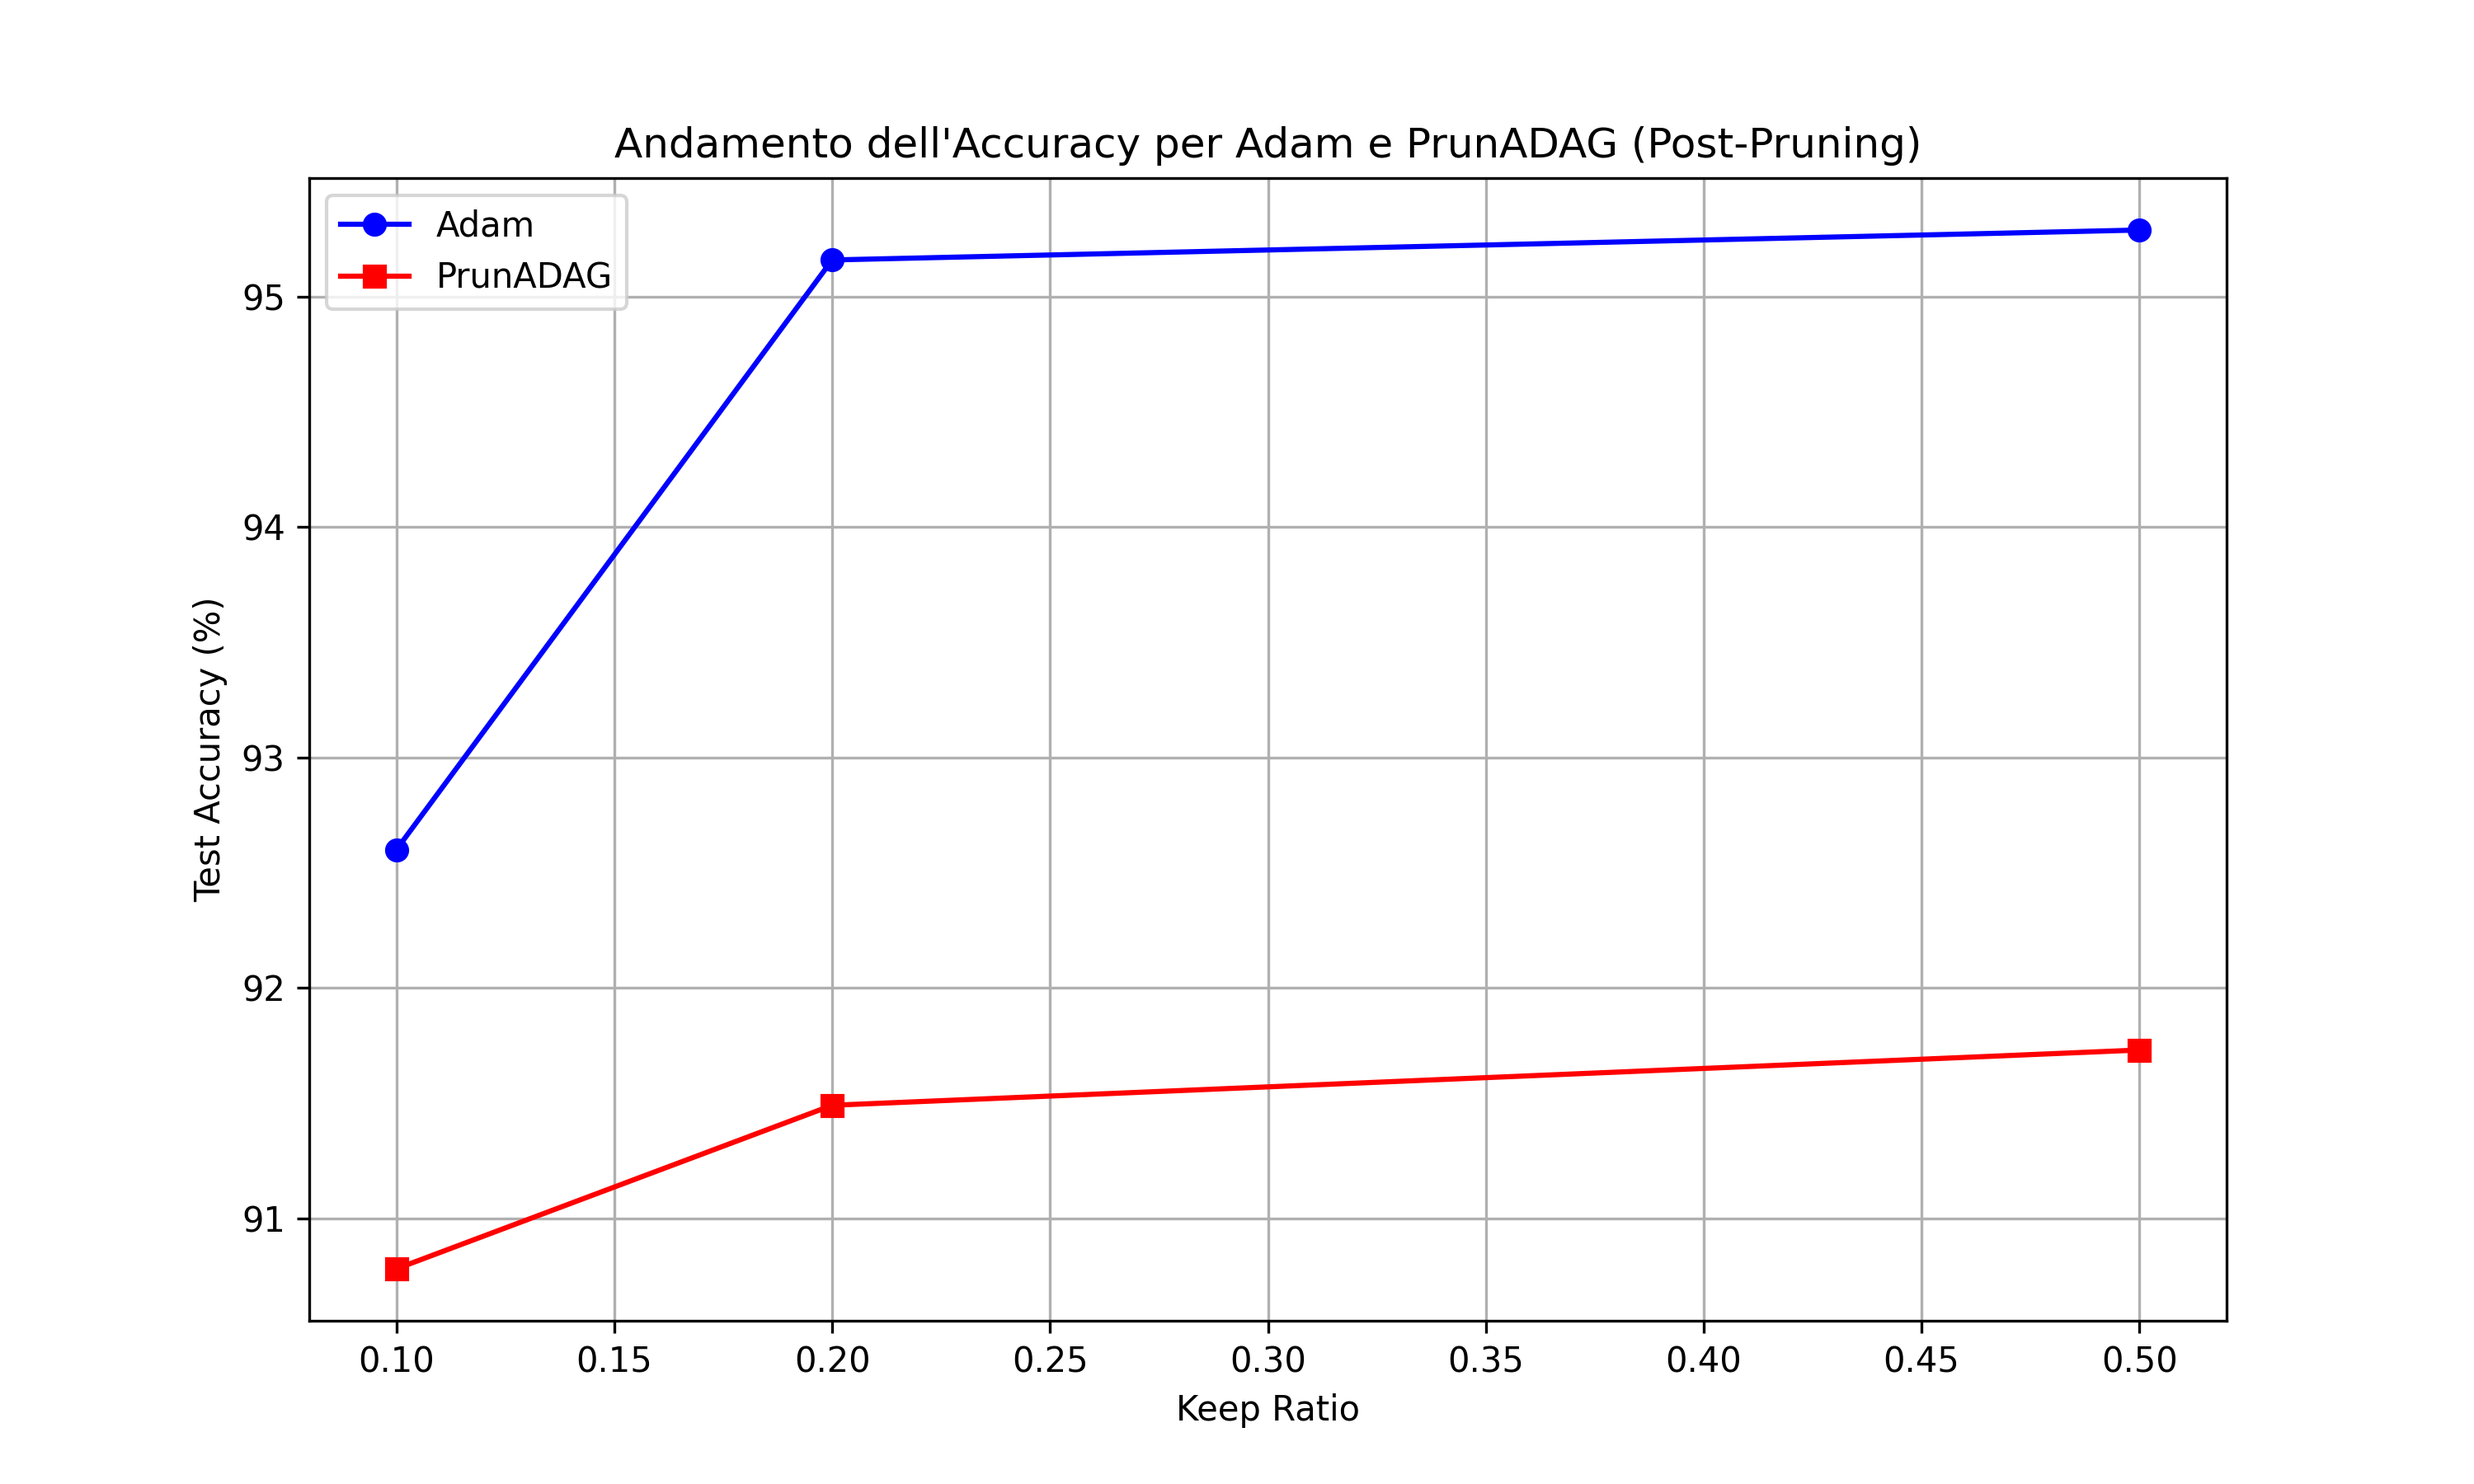
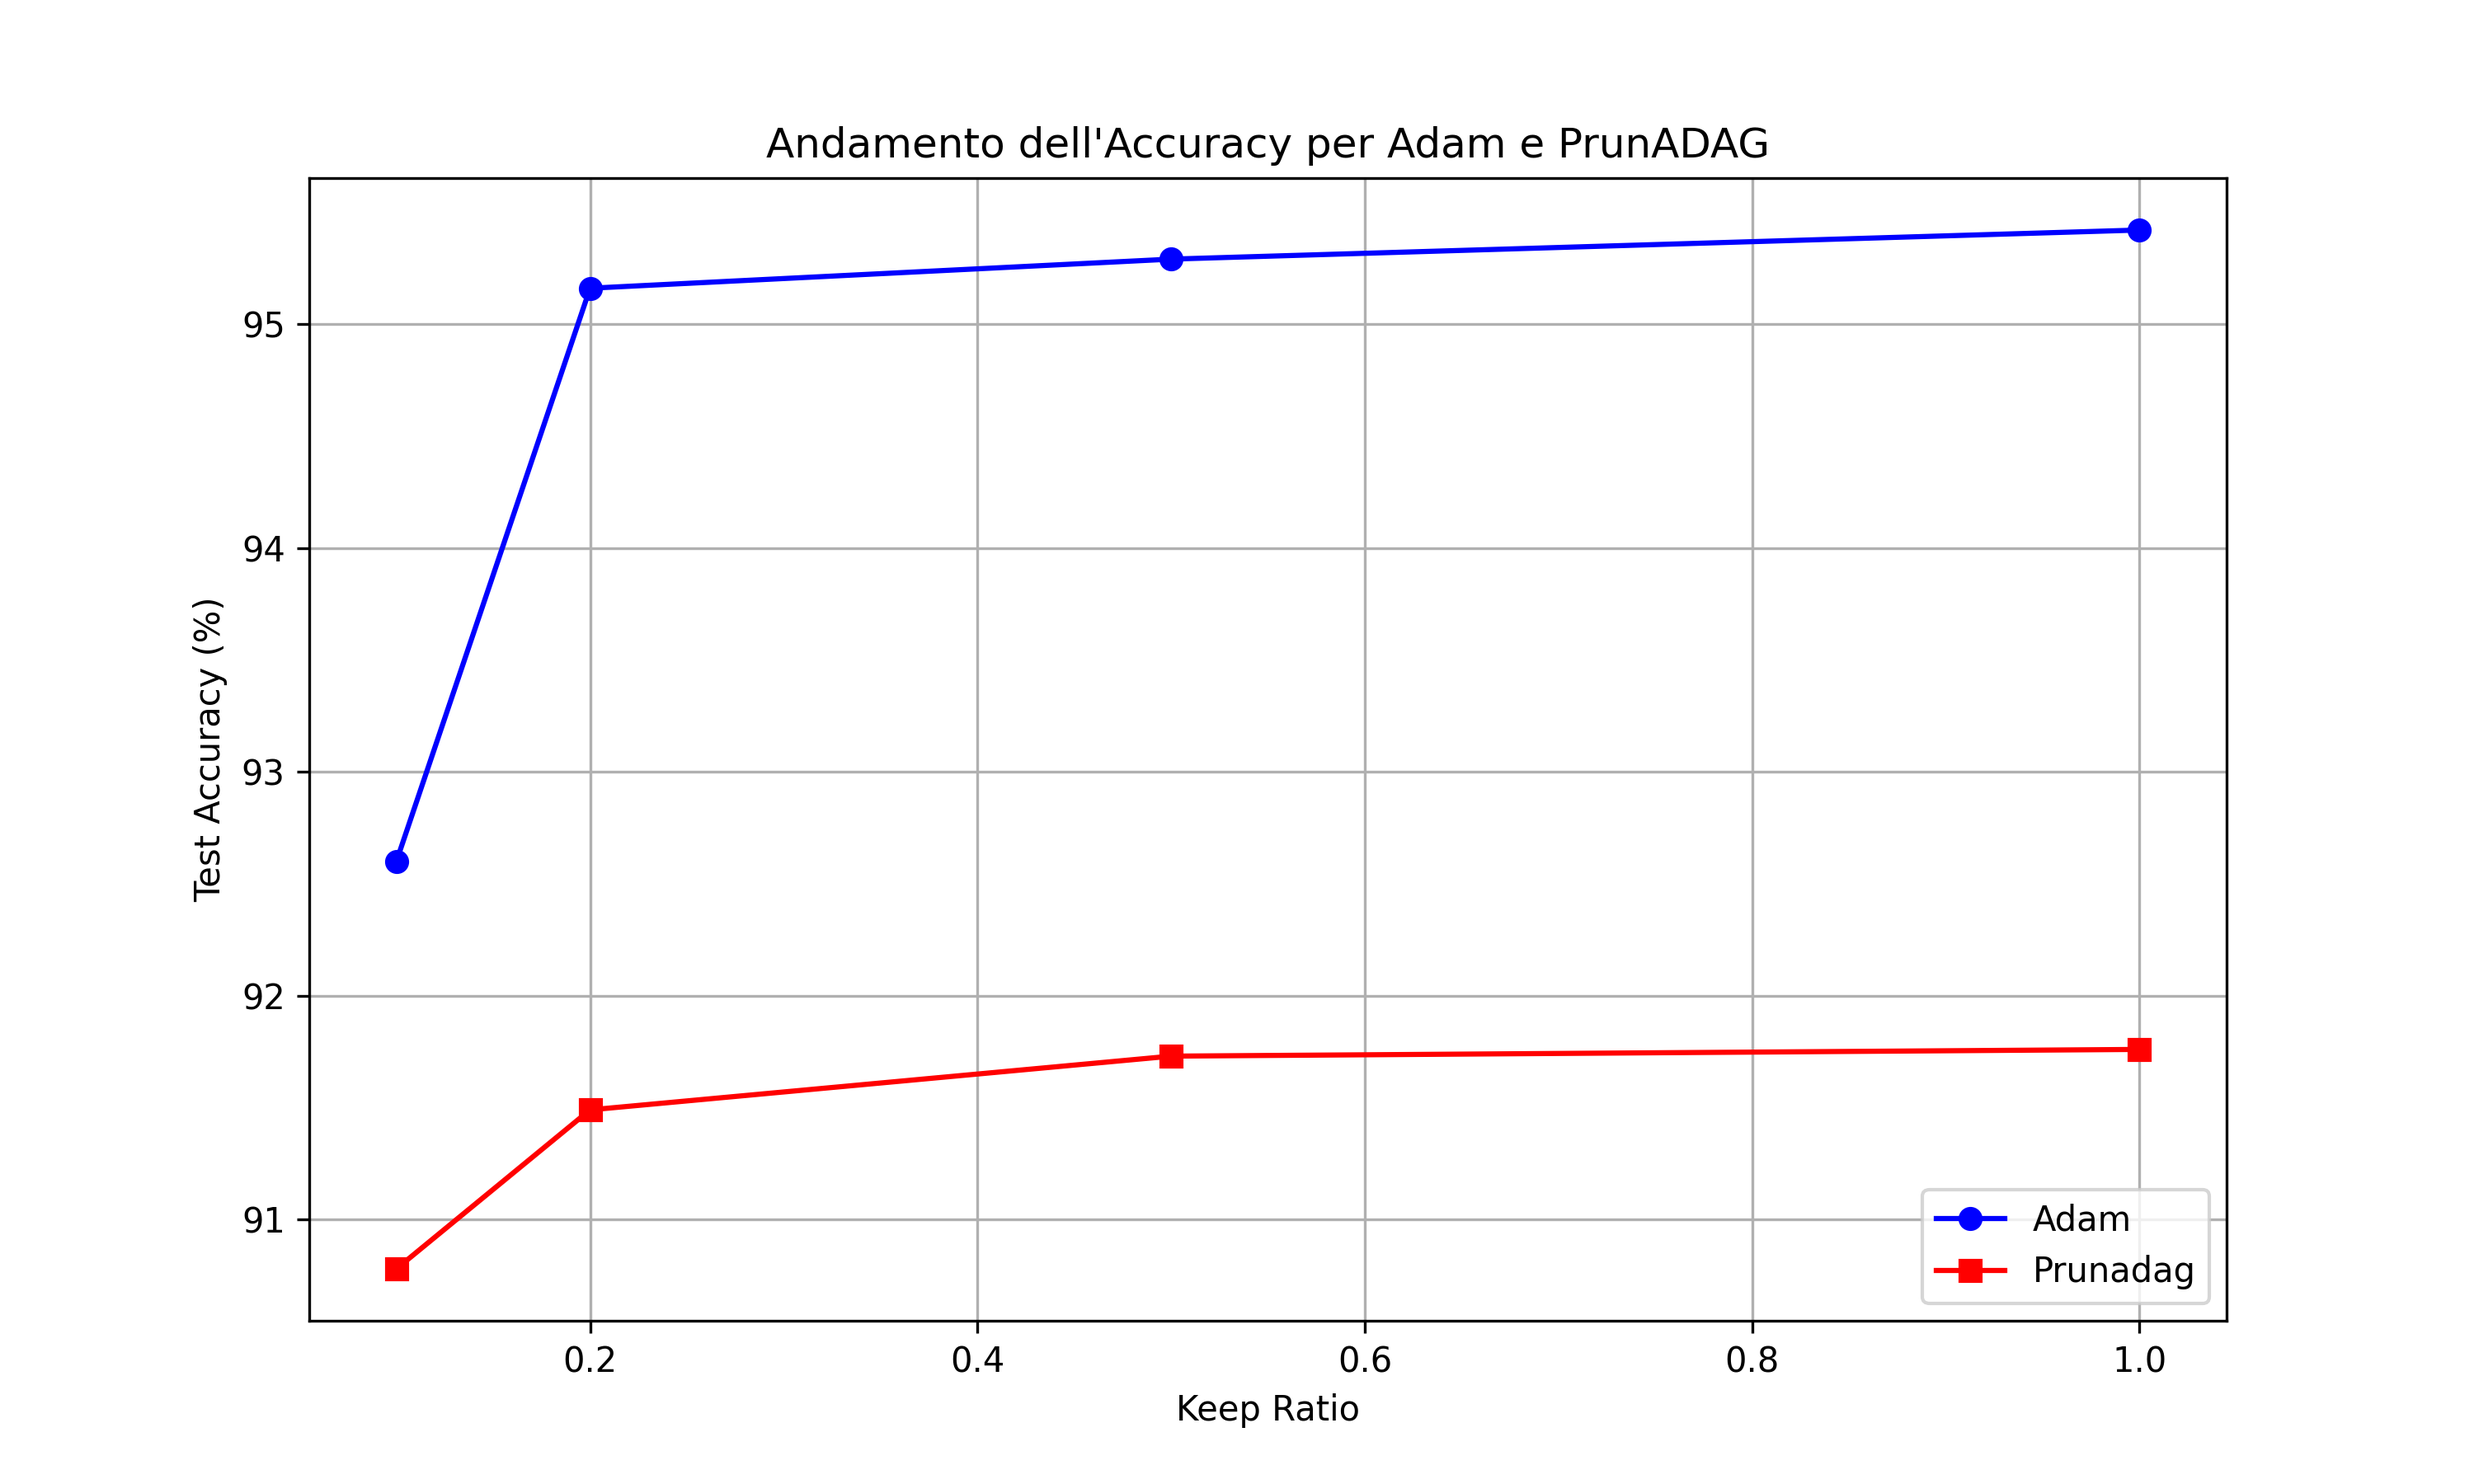
Fix dello script di visualizzazione

diff --git a/visualization.py b/visualization.py
@@ -5,19 +5,18 @@ import matplotlib.pyplot as plt
 import os
 
 df = pd.read_csv('outputs/results_mnist_mlp_seed42_ep1_varv1.csv')
-df_post = df[df['phase'] == 'post_pruning']
 plt.figure(figsize=(10, 6))
 
-# adam
-adam_data = df_post[df_post['optimizer'] == 'adam']
-plt.plot(adam_data['keep_ratio'], adam_data['test_accuracy'], marker='o', label='Adam', color='blue')
+optimizers = ['adam', 'prunadag']
+colors = {'adam': 'blue', 'prunadag': 'red'}
+markers = {'adam': 'o', 'prunadag': 's'}
 
-# prunadag
-prunadag_data = df_post[df_post['optimizer'] == 'prunadag']
-plt.plot(prunadag_data['keep_ratio'], prunadag_data['test_accuracy'], marker='s', label='PrunADAG', color='red')
+for opt in optimizers:
+    opt_data = df[df['optimizer'] == opt].sort_values('keep_ratio')
+    plt.plot(opt_data['keep_ratio'], opt_data['test_accuracy'], marker=markers[opt], label=opt.capitalize(), color=colors[opt])
 
 # titoli ed etichette
-plt.title('Andamento dell\'Accuracy per Adam e PrunADAG (Post-Pruning)')
+plt.title('Andamento dell\'Accuracy per Adam e PrunADAG')
 plt.xlabel('Keep Ratio')
 plt.ylabel('Test Accuracy (%)')
 plt.legend()
